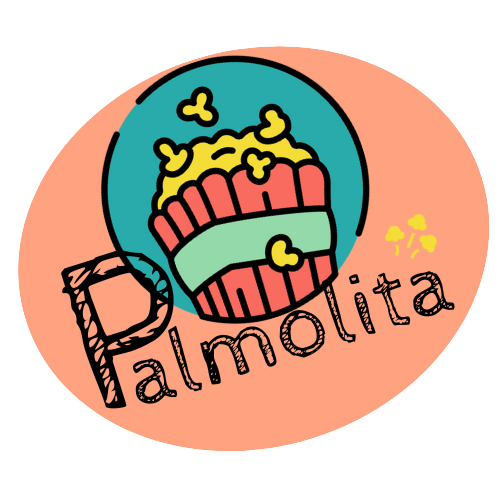
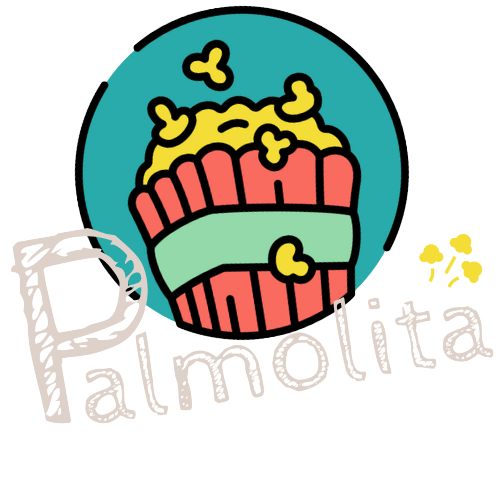
se arreglo el posterMovie dando un tamaño mas optimo, se agrego la animacion de los botones de la barra de navegacion, se cambiaron algunos colores

diff --git a/styles/navBar.css b/styles/navBar.css
@@ -2,43 +2,102 @@
     --yellow: #F7D060;
     --ligth-yellow: #F3E99F;
     --varela: 'Varela Round', sans-serif;
+    --b: 3px;   /* border thickness */
+    --s: .15em; /* size of the corner */
+    /* --c: #BD5532;*/
+    --c: #CCA059;
+    --azure: #01ABAA;
+    --cream: #DED1C9;
+    --other-blue: #5E83D6;
+    --almost-black: #1B1029;
+    --mint: #6FC2D9;
+    --pink: #D3A3B3;
+    --gold: #CCA059;
+    --purple: #46135C;
 }
 .menuNav{
     text-align: center;
+    margin-top: 25px;
 }
 
-button{
-    background-color: var(--yellow);
-    font-family: var(--varela);
-    border: none;
-    color: black;
-    text-align: center;
+ .button{
     text-decoration: none;
-    font-size: 20px;
-    border-radius: 10px;
-    padding: 10px 24px;
-    transition: all 0.5s;
+    font-family: var(--varela);
+    font-weight: bold;
+    font-size: 2rem;
     cursor: pointer;
-    margin: 5px;
+    border: none;
+    margin: .1em;
+    padding: calc(.05em + var(--s)) calc(.3em + var(--s));
+    color: var(--c);
+    --_p: var(--s);
+    background:
+      conic-gradient(from 90deg at var(--b) var(--b),#0000 90deg,var(--c) 0)
+      var(--_p) var(--_p)/calc(100% - var(--b) - 2*var(--_p)) calc(100% - var(--b) - 2*var(--_p));
+    transition: .3s linear, color 0s, background-color 0s;
+    outline: var(--b) solid #0000;
+    outline-offset: .2em;
 }
 
-button span{
-    cursor: pointer;
-    display: inline-block;
+.button:hover,
+.button:focus-visible{
+  --_p: 0px;
+  outline-color: var(--c);
+  outline-offset: .05em;
+}
+.button:active {
+  background: var(--c);
+  color: #fff;
+}
+  
+ /*.button {
+    text-align: center;
+    margin: 5em;
     position: relative;
-    transition: 0.5s;
-}
-
-.btnLast span::after{
-    content: '\00bb';
+    display: inline-block;
+    padding: 1em 1.75em;
+    font-size: 19px;
+    border: 3px solid var(--purple);
+    font-family: var(--varela);
+    color: var(--purple);
+    text-decoration: none;
+    font-weight: bold;
+    transform-style: preserve-3d;
+    transform:  rotate(-1.5deg);
+    transition: all 300ms cubic-bezier( 0.8, -0.3, 0.2, 1.3 );
+    margin: 0 3em;
+  }
+  
+  .button:hover {
+    transform:  rotate(0deg);
+  }
+  
+  .button::before {
+    content: ' ';
     position: absolute;
-    opacity: 0;
+    width: 130%;
+    height: 80%;
+    background: var(--pink);
+    top: 10%;
+    left: -15%;
+    transform: translateZ(-1px)  rotate(-178.5deg);
+    transition: all 400ms ease-in-out, transform 400ms cubic-bezier( 0.8, -0.3, 0.2, 1.3 ) ;
+    pointer-events: none;
+  }
+  
+  .button:hover::before {
+    transform: translateZ(-1px)  rotate(0deg);
     top: 0;
-    right: -20px;
-    transition: 0.5s;
-}
-
-button:hover span{
-    background-color: var(--ligth-yellow);
-    padding-right: 25px;
-}
+    left: 0;
+    width: 100%;
+    height: 100%;
+  }
+  
+  .button:active::before {
+    top: 10%;
+    left: 5%;
+    width: 90%;
+    height: 80%;
+     transform: translateZ(-1px)  rotate(-1deg);
+    transition-duration: 100ms;
+  }*/

diff --git a/components/NavBar.tsx b/components/NavBar.tsx
@@ -1,12 +1,22 @@
-import '../styles/menuNav.css';
+import '../styles/navBar.css';
 
 const MenuNav = () => {
   return <section className='menuNav'>
-       <button id='btnFirst'>Primero</button>
-       <button id='btnBefore'>Anterior</button>
-       <button id='btnNext'>Siguiente</button>
-       <button id='btnLast'>Último</button>
+       <a href="#" className="button">Primero</a>
+       <a href="#" className="button">Anterior</a>
+       <a href="#" className="button">Siguiente</a>
+       <a href="#" className="button">Último</a>
     </section>
 }
 
 export default MenuNav;
+
+/* <button id='btnFirst'>Primero</button>
+       <button id='btnBefore'>Anterior</button>
+       <button id='btnNext'>Siguiente</button>
+       <button id='btnLast'>Último</button> */
+
+/*<a href="#" className="button">Primero</a>
+       <a href="#" className="button">Anterior</a>
+       <a href="#" className="button">Siguiente</a>
+       <a href="#" className="button">Último</a> */

diff --git a/styles/menuBar.css b/styles/menuBar.css
@@ -1,6 +1,13 @@
 :root{
     --azure: #01ABAA;
-    --light-azure: #98D8AA;
+    --cream: #DED1C9;
+    --other-blue: #5E83D6;
+    --almost-black: #1B1029;
+    --mint: #6FC2D9;
+    --pink: #D3A3B3;
+    --gold: #CCA059;
+    --purple: #46135C;
+    --violet: #897487;
     --lucky: 'Luckiest Guy', cursive;
     --varela: 'Varela Round', sans-serif;
 }
@@ -16,6 +23,7 @@ h1{
     position: relative;
     margin-left: 200px;
     margin-top: -150px;
+    color: var(--cream);
 }
 
 select {
@@ -24,16 +32,18 @@ select {
     font-size: 25px;
     margin-top: -30px;
     border-radius: 10px;
-    background-color: var(--light-azure);
+    background-color: var(--cream);
+    color: var(--almost-black);
 }
 
 select option {
     font-family: var(--varela);
     font-size: 18px;
+    color: var(--almost-black);
 }
 
 select:hover{
-    background-color: var(--azure);
+    background-color: var(--violet);
 }
 
 #menuGender{

diff --git a/components/GridMovies.tsx b/components/GridMovies.tsx
@@ -15,16 +15,17 @@ const GridMovies = () => {
 
     useEffect(() => {
         getAnimatedMovies().then((data) => {
-          setMovies(data.results);  // data is also Movie[] type
+          setMovies(data.results);
         });  
       }, []);
-
+      
     return (
       <div className='gridMovies'> 
         {movies.map((movie) => {
           return (
-            <PosterMovie           
-              key={movie.id}
+            <PosterMovie
+              key={movie.id}           
+              idMovie={movie.id}
               imageURL={`https://image.tmdb.org/t/p/w500${movie.poster_path}`}
               nameMovie={movie.title}
               yearMovie={movie.release_date}  

diff --git a/components/PosterMovie.tsx b/components/PosterMovie.tsx
@@ -2,16 +2,17 @@
 import '../styles/postermovie.css'
 
 interface MovieProps{
+  idMovie: string;
   imageURL: string;
   nameMovie: string;
   yearMovie: string;
 }
 
-function PosterMovie({imageURL,nameMovie: movieName,yearMovie} : MovieProps) {
+function PosterMovie({idMovie, imageURL, nameMovie, yearMovie} : MovieProps) {
       return (
         <picture className='poster'>
-            <img src = {imageURL} alt=''/>
-            <figcaption>{movieName}</figcaption>
+            <img id={idMovie} src = {imageURL} alt='Poster movie' className='posterMovie'/>
+            <figcaption>{nameMovie}</figcaption>
             <span>{yearMovie}</span>
         </picture>
       )

diff --git a/styles/posterMovie.css b/styles/posterMovie.css
@@ -1,0 +1,18 @@
+:root{
+    --azure: #01ABAA;
+    --cream: #DED1C9;
+    --other-blue: #5E83D6;
+    --almost-black: #1B1029;
+    --mint: #6FC2D9;
+    --pink: #D3A3B3;
+    --gold: #CCA059;
+    --purple: #46135C;
+}
+
+.posterMovie{
+    border-radius: 15px;
+    cursor: pointer;
+    object-fit: scale-down;
+    width: 260px;
+    height: 260px;
+}

diff --git a/src/main.tsx b/src/main.tsx
@@ -1,7 +1,7 @@
 import React from 'react'
 import ReactDOM from 'react-dom/client'
 import App from './App.tsx'
-import './index.css'
+import '../styles/index.css'
 
 ReactDOM.createRoot(document.getElementById('root')!).render(
   <React.StrictMode>

diff --git a/styles/index.css b/styles/index.css
@@ -1,0 +1,7 @@
+:root {
+  font-family: 'Varela Round', sans-serif;
+  /*background-image: url(./assets/background.jpg);*/
+  background-color: #3C5064;
+  background-size: cover;
+  color: #D3A3B3;
+}

diff --git a/styles/gridMovies.css b/styles/gridMovies.css
@@ -1,6 +1,8 @@
 .gridMovies{
+    text-align: center;
     margin-top: 50px;
     display: grid;
     grid-template-columns: repeat(5, 1fr);
     grid-gap: 10px;
+    justify-content: center;
 }

diff --git a/src/connectAPI.ts b/src/connectAPI.ts
@@ -1,6 +1,7 @@
 const API_KEY = 'ccedb42a54c3ee36b2d505f569a4b95f';
 
 interface Movie {
+    id: string;
     title: string;
     poster_path: string;
     release_date: string;

diff --git a/CHANGELOG.md b/CHANGELOG.md
@@ -39,6 +39,10 @@
 # Uso de interface para definir los tipos de props a recibir
 # Pude presentar el componente de PosterMovie y el GridMovies, me marca un error que no entiendo bien, pero presenta imágenes e información
 # Diferencias entre tsx y ts
+# Cambié paleta de colores
+# Resolví el error que me marcaba de los componentes
+# Diseño de CSS para el poster de la pelicula
+# Empezando a ver la manera de paginar
 
 ### Added
 
@@ -49,7 +53,10 @@
 ### Changed
 
 # Archivo App.tsx
+# Archivo de imagen del logo
 
 ### Fixed
 
 ### Removed
+
+# Borré archivo de app.css 
